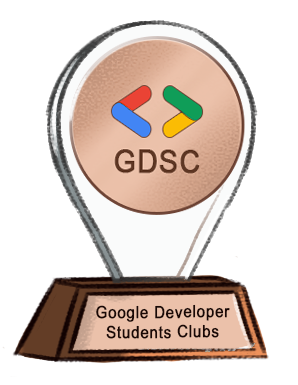
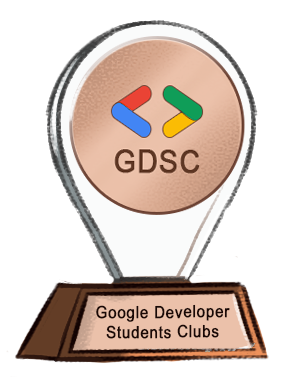
Audio on object click

Changed region(s): [[0.0302, 0.7169, 0.3926, 0.9351], [0.6342, 0.7169, 0.7852, 0.7481], [0.2114, 0.9351, 0.2718, 0.9662]]

diff --git a/src/engine/clickSound.ts b/src/engine/clickSound.ts
@@ -1,0 +1,10 @@
+// One shared <audio> element reused across every clickable asset, rather
+// than each InteractiveLayer owning its own — there can be many clickGlow
+// layers in a scene, and they never play concurrently anyway.
+let sharedAudio: HTMLAudioElement | undefined;
+
+export function playClickSound(): void {
+  if (!sharedAudio) sharedAudio = new Audio('/assets/music/click.wav');
+  sharedAudio.currentTime = 0;
+  sharedAudio.play().catch(() => {}); // ignore — playback can't be blocked here since this runs from a real click
+}

diff --git a/src/engine/behaviors.ts b/src/engine/behaviors.ts
@@ -1,5 +1,6 @@
 import type { MotionProps } from 'framer-motion';
 import type { BehaviorId } from './types';
+import { playClickSound } from './clickSound';
 
 export const ALL_BEHAVIOR_IDS: BehaviorId[] = ['clickGlow'];
 
@@ -48,6 +49,7 @@ const BEHAVIOR_RESOLVERS: Record<
       onClick: () => {
         acc.onClick?.();
         ctx.toggleGlow();
+        playClickSound();
       },
     };
   },

diff --git a/src/components/RoomScene/RoomScene.tsx b/src/components/RoomScene/RoomScene.tsx
@@ -125,7 +125,7 @@ export const roomSceneItems: SceneLayer[] = [
     src: "/assets/room/gdsc.png",
     type: "image",
     left: 53,
-    top: 43,
+    top: 42.7,
     width: 22,
     height: 13,
   },
